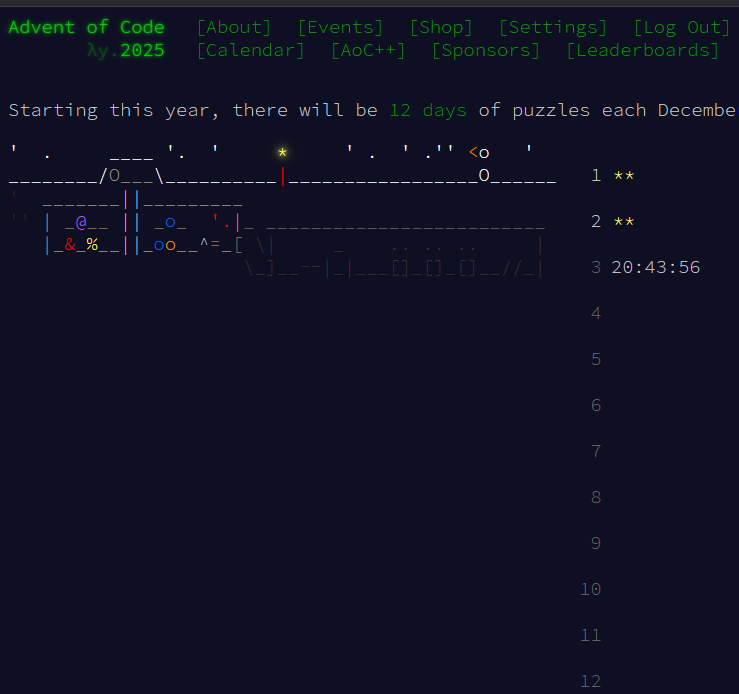
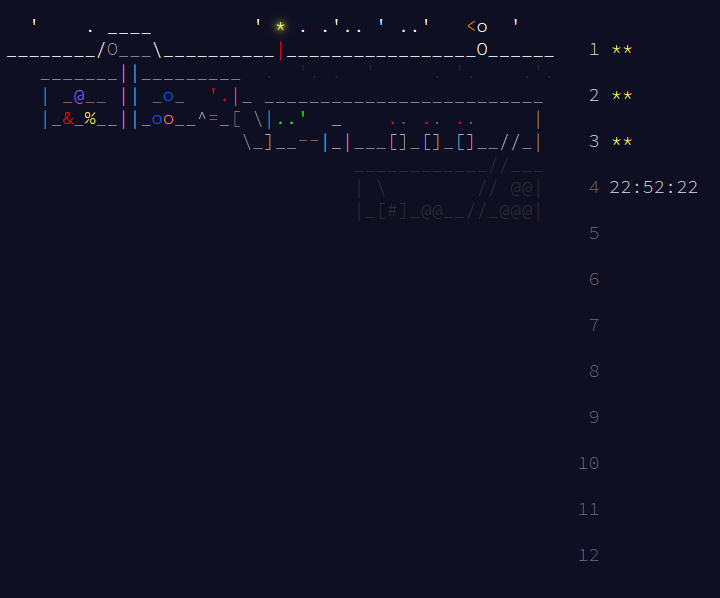
better placement of utils, put package level Cargo.toml

diff --git a/2025/day3/src/main.rs b/2025/day3/src/main.rs
@@ -1,0 +1,86 @@
+use utils::structs::stopwatch::{ReportDuration, Stopwatch};
+
+fn main() {
+    let mut watch = Stopwatch::new();
+    watch.start();
+    let input = std::fs::read_to_string("2025/day3/input").expect("Failed to read input file");
+    println!("1. {} ({})", part1(&parse_input(input.clone())), watch.lap().report());
+    println!("2. {} ({})", part2(&parse_input(input.clone()), 12), watch.lap().report());
+}
+
+fn parse_input(input: String) -> Vec<String> {
+    input
+        .lines()
+        .map(|line| line.to_string())
+        .collect()
+}
+
+fn part1(input: &Vec<String>) -> u64 {
+    input.iter()
+        .map(|n| {
+            let digits : Vec<u32> = n
+                .trim()
+                .chars()
+                .map(|c| c.to_digit(10).unwrap())
+                .collect();
+            let mut largest_num: u32 = 0;
+            for i in 0..digits.len() {
+                for j in (i+1)..digits.len() {
+                    if (digits[i] * 10 + digits[j]) > largest_num{
+                        largest_num = digits[i] * 10 + digits[j];
+                    }
+                }
+            }
+            largest_num as u64
+        }).sum()  
+}
+
+fn part2(input: &Vec<String>, num_batteries: usize) -> u64 {
+    input.iter()
+        .map(|n| {
+            let digits : Vec<u32> = n
+                .trim()
+                .chars()
+                .map(|c| c.to_digit(10).unwrap())
+                .collect();
+            if digits.len() < num_batteries {
+                return 0;
+            }
+            let mut turned_on : Vec<u32> = digits[0..num_batteries].to_vec();
+            for window in digits.windows(num_batteries).skip(1) {
+                for i in 0..num_batteries {
+                    if window[i] > turned_on[i] {
+                        turned_on.truncate(i);
+                        turned_on.append(&mut window[i..].to_vec());
+                        break;
+                    }
+                }
+                println!("Window: {:?}, Turned on: {:?}", window, &turned_on);
+            }
+            turned_on.iter().fold(0u64, |acc, &d| acc * 10 + d as u64)
+        }).sum()
+}
+
+#[test]
+fn test1()
+{
+    let input = r"
+    987654321111111
+    811111111111119
+    234234234234278
+    818181911112111
+    ";
+    assert_eq!(357, part1(&parse_input(input.to_string())));
+}
+
+#[test]
+fn test2()
+{
+    let input = r"
+    987654321111111
+    811111111111119
+    234234234234278
+    818181911112111
+    ";
+    assert_eq!(3121910778619, part2(&parse_input(input.to_string()), 12));
+}

diff --git a/2025/day3/day3.md b/2025/day3/day3.md
@@ -1,0 +1,5 @@
+> cargo run --release --bin day3-2025 > day3.md
+1. 17158 (701μs)
+2. 170449335646486 (641μs)
+
+9:03 PST to 10:09 PST
